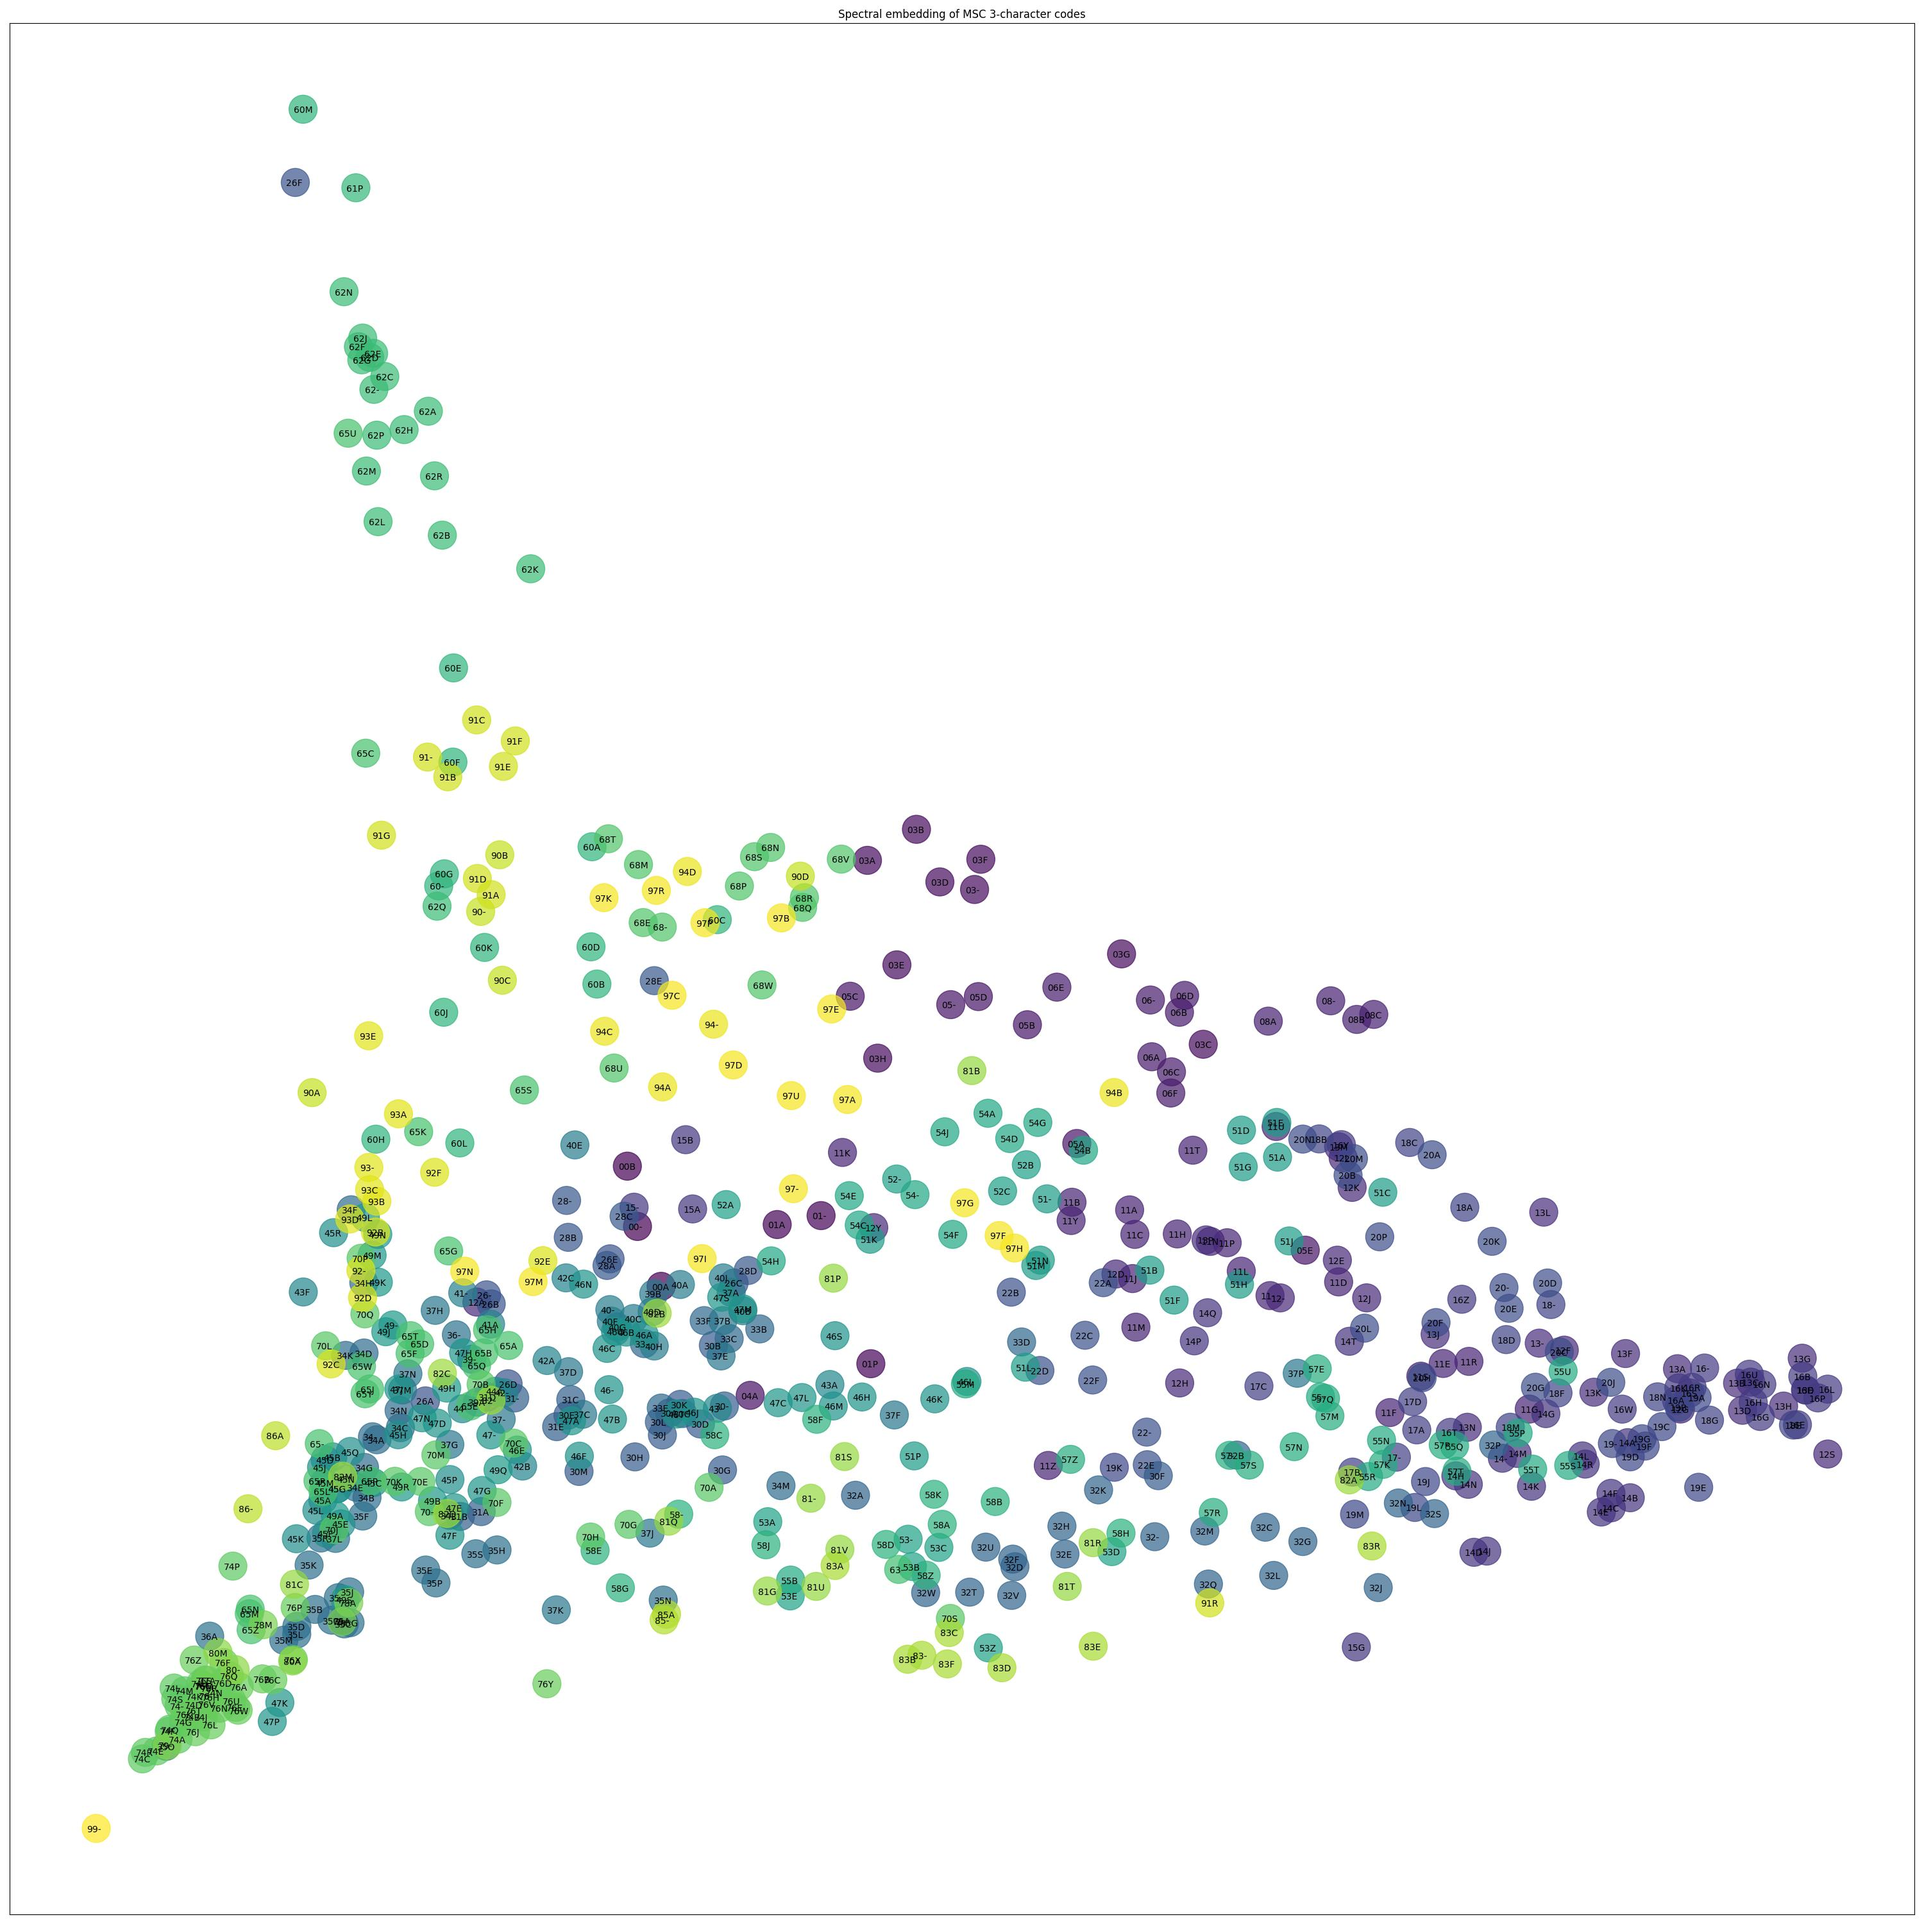
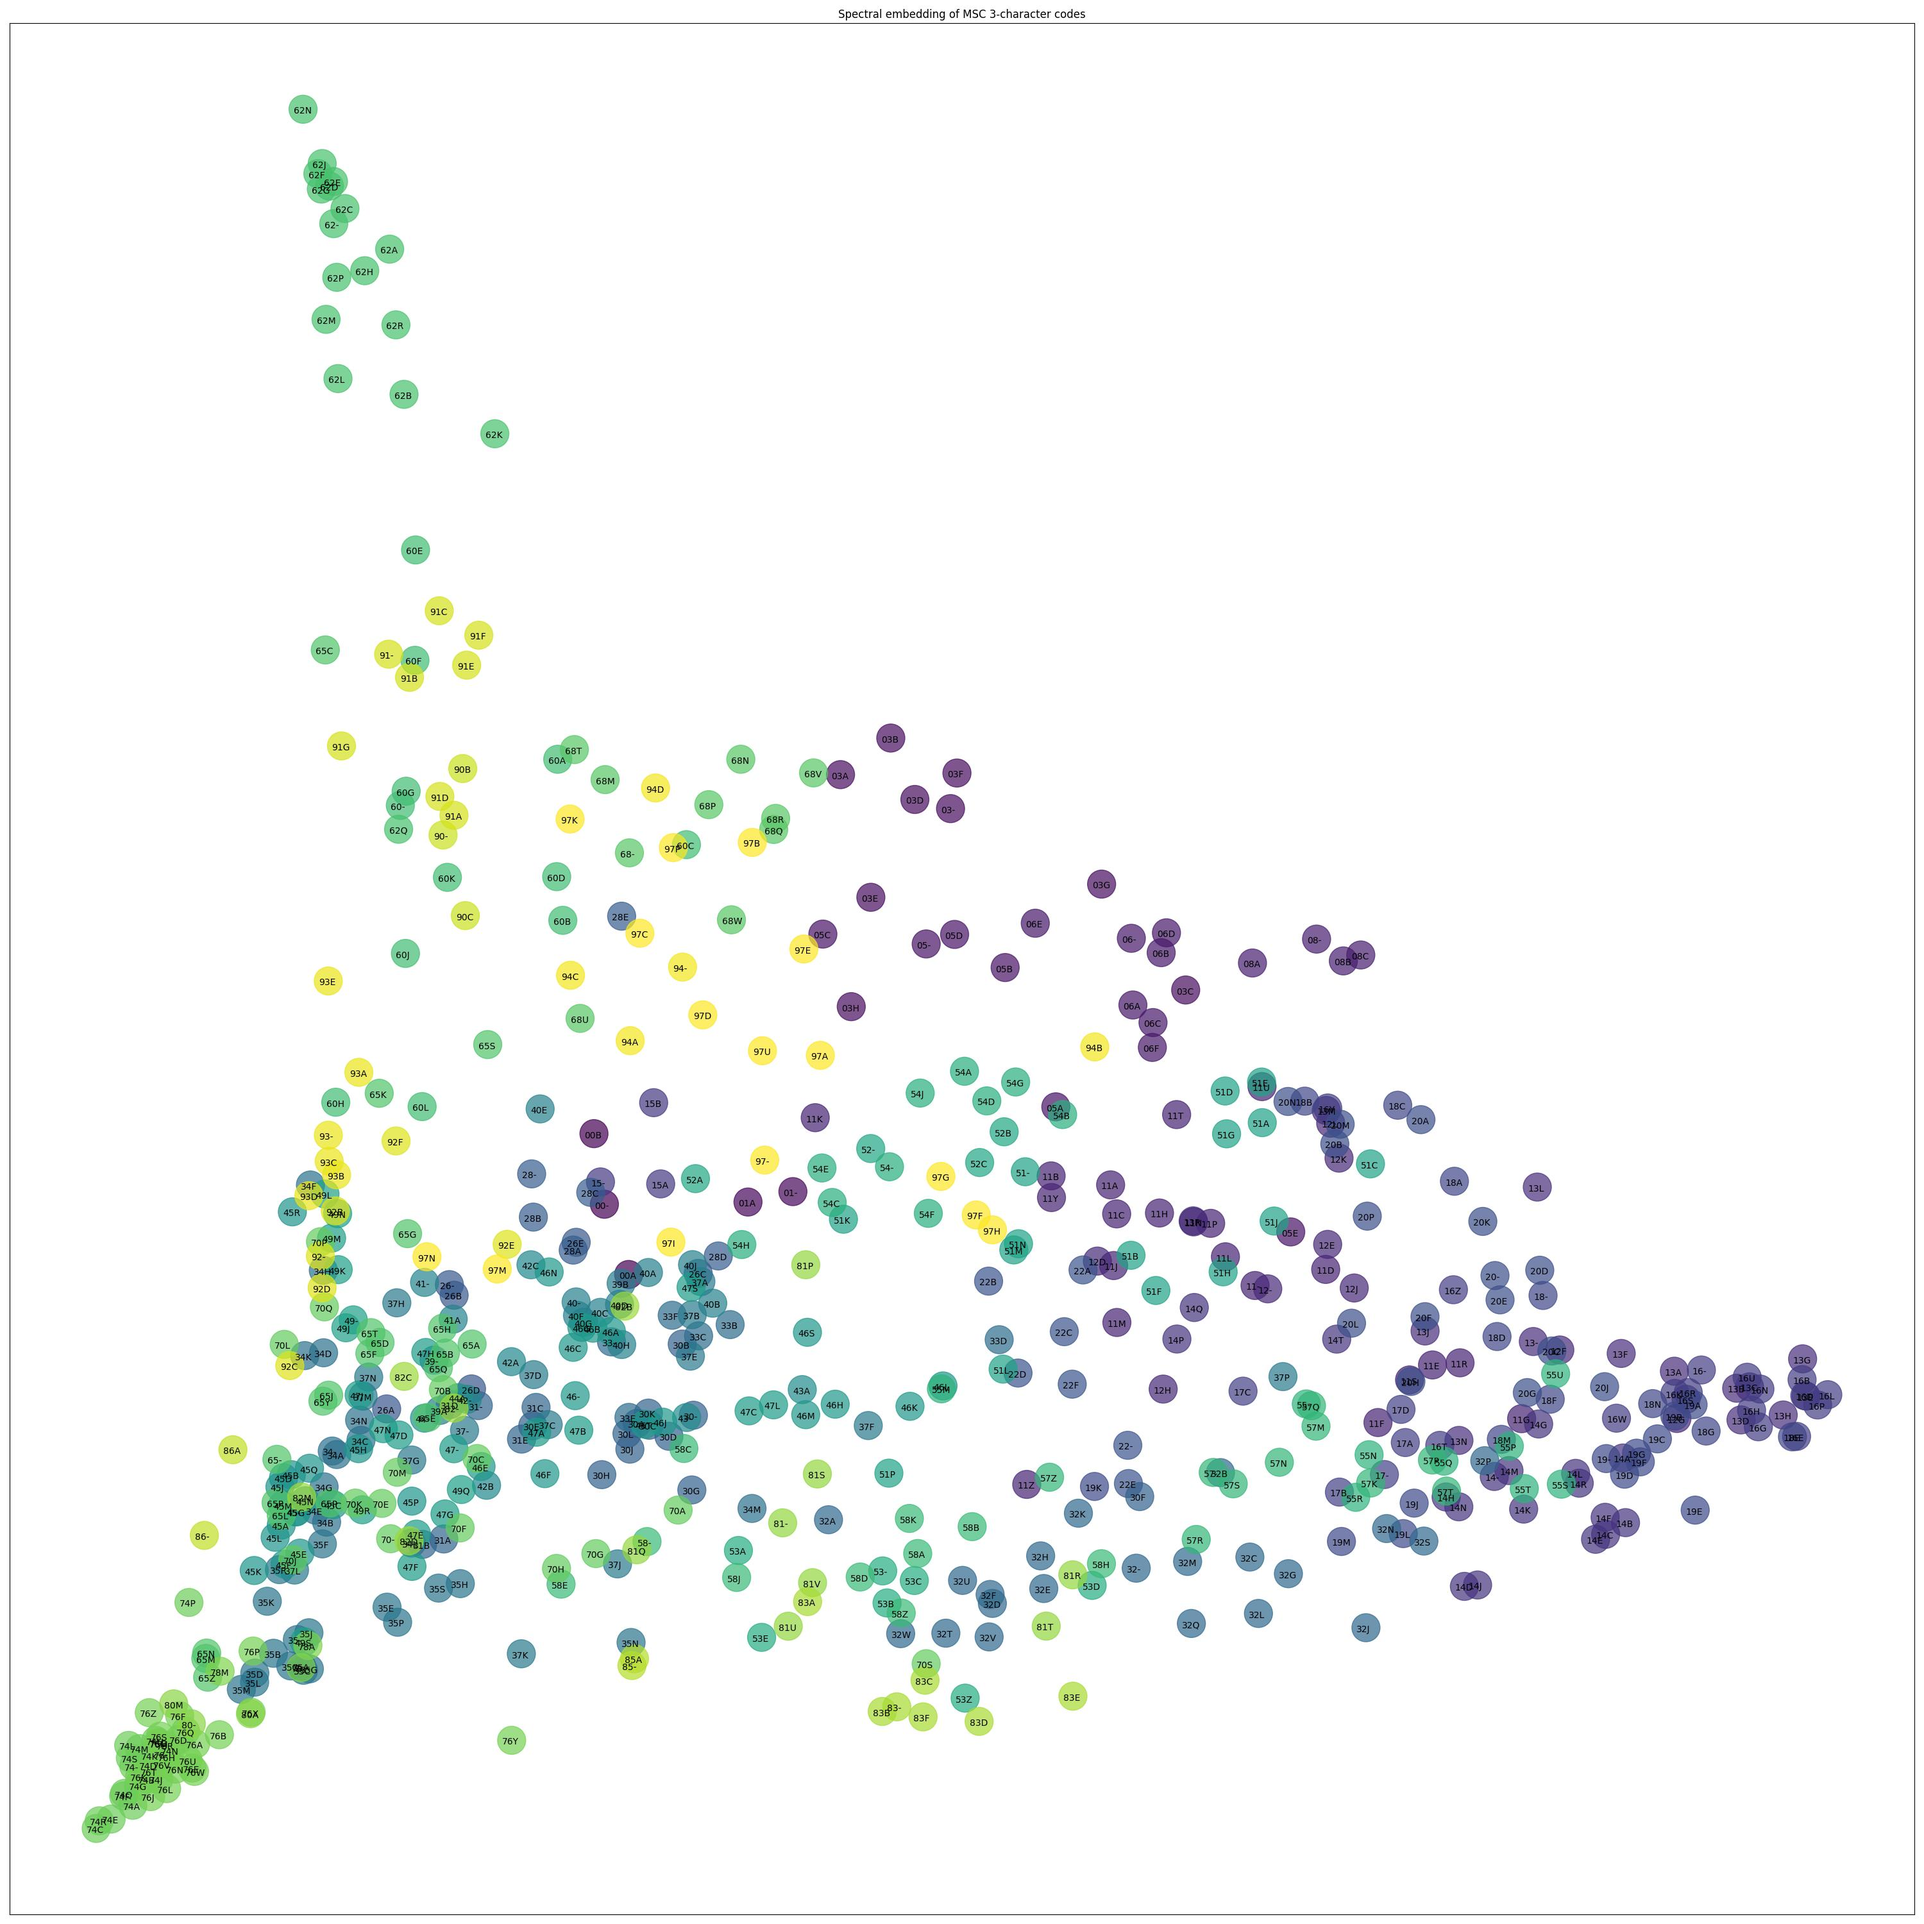
Restricting to valid MSC2020 codes

diff --git a/content/blog/a-map-of-mathematics.md b/content/blog/a-map-of-mathematics.md
@@ -330,6 +330,8 @@ head -n 10 ~/data/msc3.txt
 03D
 ```
 
+This list will be useful later.
+
 
 ## a weighted graph {#a-weighted-graph}
 
@@ -387,38 +389,43 @@ M\_{ij} = \begin{cases} n\_{ij} & e\_{ij} \in E\_{G\_3} \\\ 0 & e\_{ij} \notin E
 
 for any \\(v\_i,v\_j\in\text{MSC}\_3\\). We can apply our function \\(f\\) element-wise
 afterwards. The code to construct this adjacency matrix is pretty
-straightforward, though it took a minute or two to run on my machine.
+straightforward, though it took two or three minutes to run on my machine.
 
 ```python
+# load up the list of valid 3-character MSC codes that we created earlier
+valid_codes = pd.read_csv('~/data/msc3.txt', header=None)[0]
 N = len(msc3)
-# the matrix indexing is associated to the MSC codes using the indexing in msc3
-idx_dict = {code: i for i, code in enumerate(msc3)}
-M = np.zeros((N, N), dtype='i')
+print(f'{N} codes in dataset / {len(valid_codes)} valid codes')
+
+# the matrix indexing is associated to the MSC codes using the indexing in valid_codes
+idx_dict = valid_codes.reset_index().set_index(0).to_dict()['index']
+
+M = np.zeros((len(valid_codes), len(valid_codes)), dtype='i')
 for row in df.itertuples():
     for document_code in row.msc:
         v1 = document_code[0:3]
-        if len(v1) != 3:
+        if v1 not in idx_dict:
             continue
         for ref_code in row.refs:
             v2 = ref_code[0:3]
-            if len(v2) != 3:
+            # make sure the code is valid
+            if v2 not in idx_dict:
                 continue
             # the adjacency matrix of an undirected graph is symmetric
             M[idx_dict[v1], idx_dict[v2]] += 1
             M[idx_dict[v2], idx_dict[v1]] += 1
 print(M)
-# give my poor laptop a break
-del df
 ```
 
 ```text
-[[   14   573    23 ...     0     1     0]
- [  573 12402   782 ...     1    43     0]
- [   23   782   722 ...     0     4     0]
+641 codes in dataset / 597 valid codes
+[[   14   573    23 ...     0     0     1]
+ [  573 12402   782 ...    11     4    43]
+ [   23   782   722 ...     7     4     4]
  ...
- [    0     1     0 ...     0     0     0]
- [    1    43     4 ...     0    28     0]
- [    0     0     0 ...     0     0     0]]
+ [    0    11     7 ...     0     0     1]
+ [    0     4     4 ...     0     0     0]
+ [    1    43     4 ...     1     0    28]]
 ```
 
 We can visualize this adjacency matrix using a heatmap:
@@ -427,7 +434,7 @@ We can visualize this adjacency matrix using a heatmap:
 import matplotlib.pyplot as plt
 plt.figure()
 plt.imshow(np.log1p(M))
-labels = [code if i % 40 == 0 else '' for i, code in enumerate(msc3)]
+labels = [code if i % 40 == 0 else '' for i, code in valid_codes.items()]
 plt.tick_params(left=False, bottom=False)
 plt.xticks(range(len(labels)), labels, rotation=90, fontsize=8)
 plt.yticks(range(len(labels)), labels, rotation=0, fontsize=8)
@@ -457,19 +464,18 @@ hundred vertices and a lot of weighted edges. There is no canonical way in which
 To get a graph embedding \\(\iota:G\hookrightarrow\R^2\\) like the one in the Math Stack Exchange
 example above, we'll want to choose an embedding that respects the weights
 \\(f(n\_{ij})\\) on the edges of \\(G\\): the heavier the weight, the closer the \\(\iota(v\_i)\\)
-and \\(\iota(v\_j)\\) should be. To put it more precisely, we'd like \\(\iota\\) to be an
+and \\(\iota(v\_j)\\) should be. To put it more precisely, we'd like \\(\iota:G\to\R^2\\) to be an
 embedding such that the quantity
 
 \begin{align\*}
 C = \sum\_{ij} f(n\_{ij})\left|\iota(v\_i) - \iota(v\_j)\right|^2
 \end{align\*}
 
-is as small as possible. We'll come back to making this optimization problem
-more formal in a moment. For now let's use `scikit-learn` to find such an
-embedding for us, and take a look at the results.
-
-
-### <span class="org-todo todo TODO">TODO</span> is the graph connected? {#is-the-graph-connected}
+is as small as possible. You can check that this expression penalizes heavier
+connected vertices for being far from each other, just as we want. We'll come
+back to making this optimization problem more formal in a moment. For now let's
+use `scikit-learn` to find such an embedding for us, and take a look at the
+results.
 
 
 ## spectral embedding {#spectral-embedding}
@@ -482,8 +488,8 @@ derive, as we'll see below.
 from sklearn.manifold import spectral_embedding
 emb_2d = spectral_embedding(M, n_components=2, random_state=42)
 df_emb2d = pd.DataFrame(emb_2d, columns=['x', 'y'])
-df_emb2d['msc'] = pd.Series(msc3)
-msc2 = np.unique(pd.Series(msc3).str[0:2])
+df_emb2d['msc'] = valid_codes
+msc2 = np.unique(df_emb2d['msc'].str[0:2])
 idx_msc2 = {code: i for i, code in enumerate(msc2)}
 df_emb2d['msc2'] = df_emb2d['msc'].str[0:2]
 df_emb2d['msc2_num'] = df_emb2d['msc2'].map(idx_msc2)
@@ -500,6 +506,9 @@ plt.savefig('a-map-of-mathematics/spectral-2d-map.jpg');
 ```
 
 {{< figure src="/ox-hugo/spectral-2d-map.jpg" >}}
+
+
+### <span class="org-todo todo TODO">TODO</span> is the graph connected? {#is-the-graph-connected}
 
 
 ## laplacian eigenmaps {#laplacian-eigenmaps}
